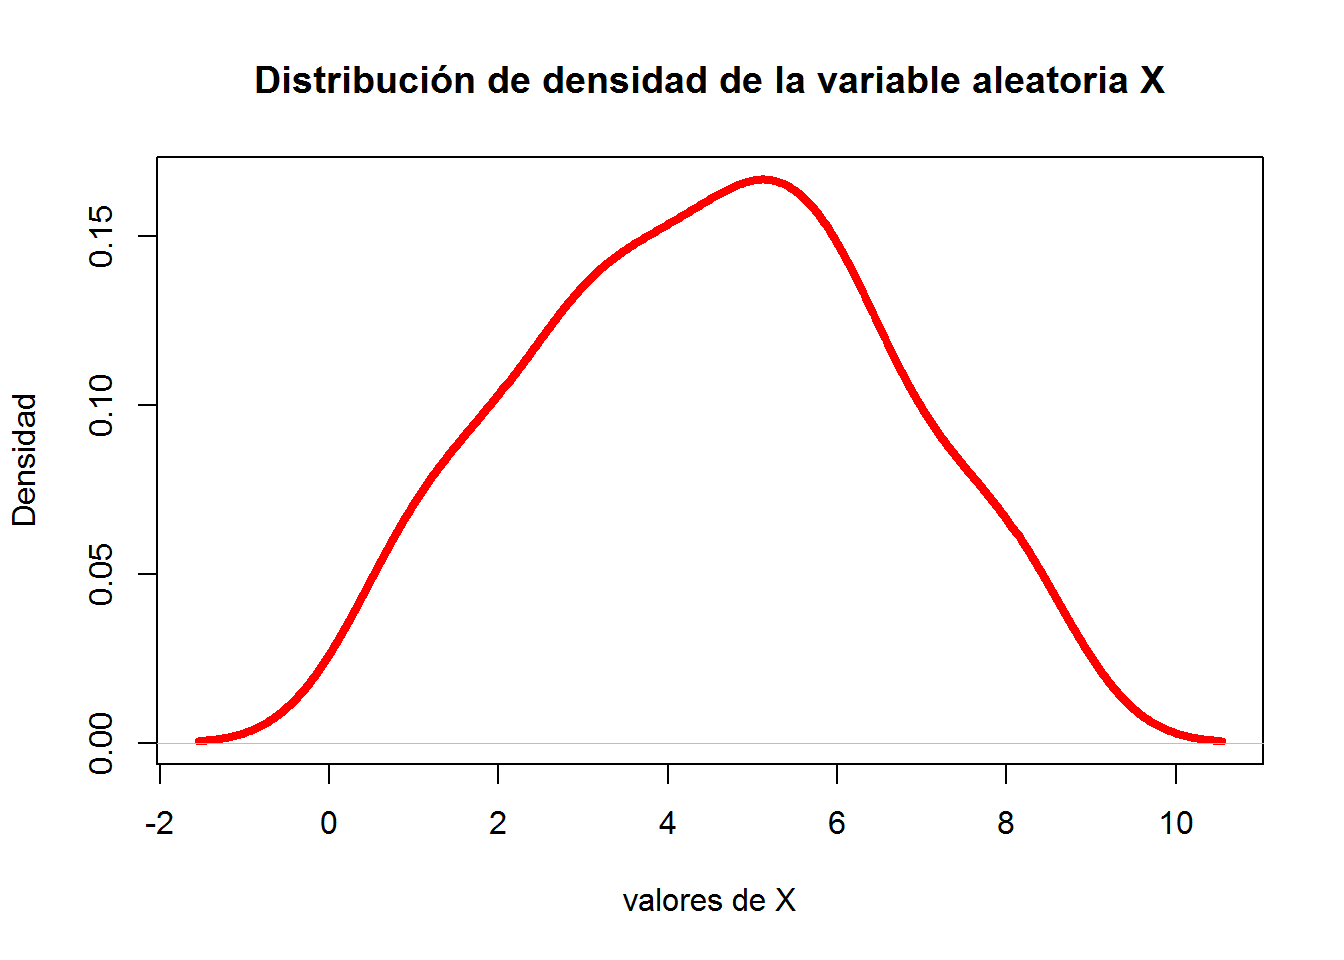
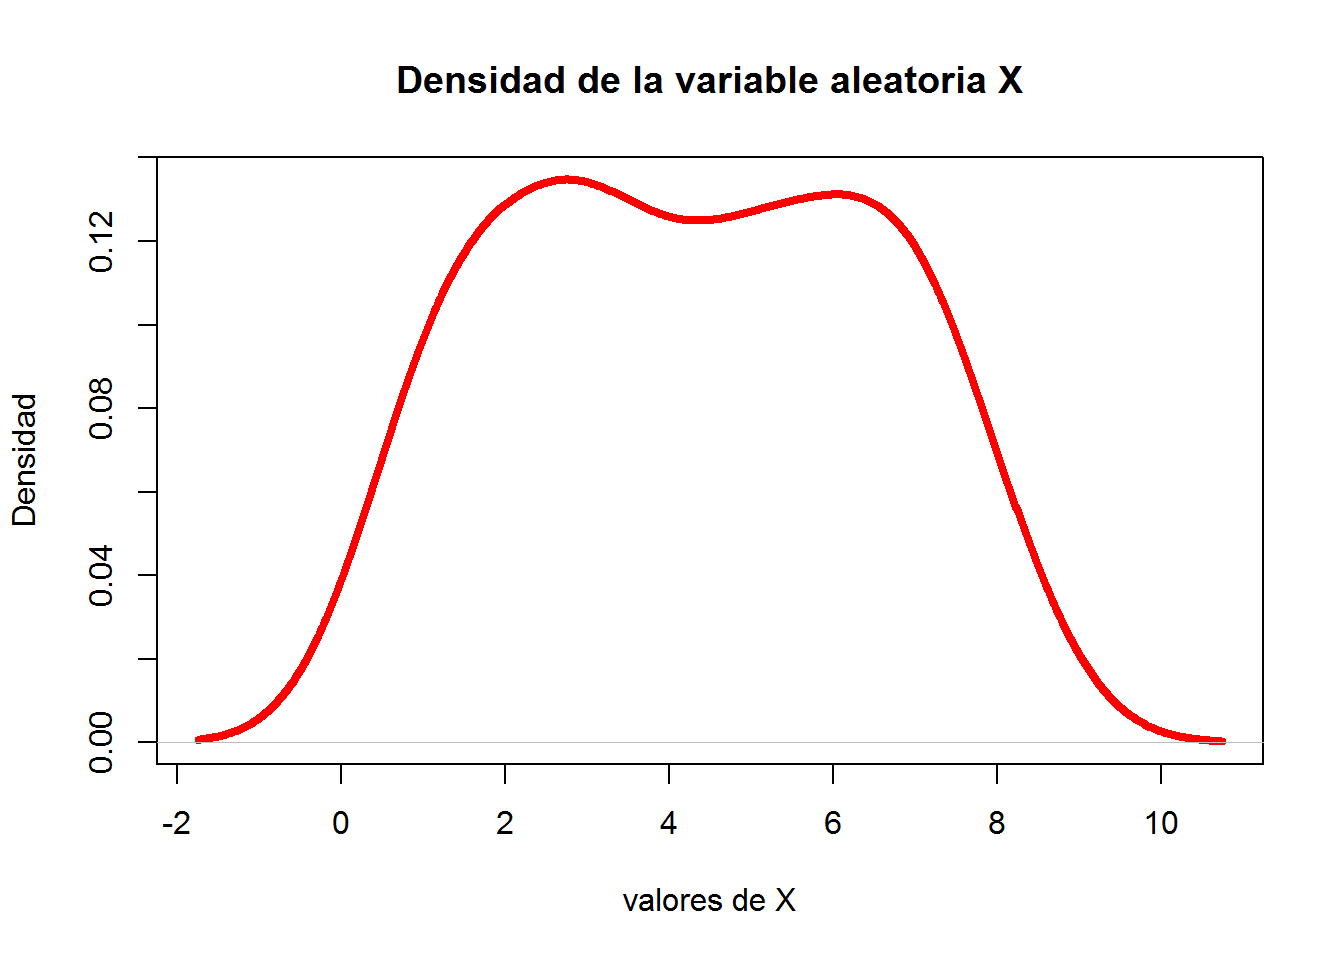
actualizacion

diff --git a/Densidad.html b/Densidad.html
@@ -248,7 +248,7 @@ $(document).ready(function () {
 
 <p>Se construye un grafico de densidades para la variable X, que vamos a crear aleatoriamente para este ejemplo</p>
 <pre class="r"><code>x&lt;- sample(1:8,50,replace = TRUE)</code></pre>
-<pre class="r"><code>plot(density(x), main=&quot;Distribución de densidad de la variable aleatoria X&quot;, xlab=&quot;valores de X&quot;, ylab=&quot;Densidad&quot;, lwd=4, col=&quot;red&quot;)</code></pre>
+<pre class="r"><code>plot(density(x), main=&quot;Densidad de la variable aleatoria X&quot;, xlab=&quot;valores de X&quot;, ylab=&quot;Densidad&quot;, lwd=4, col=&quot;red&quot;)</code></pre>
 <p><img src="Densidad_files/figure-html/unnamed-chunk-2-1.png" width="672" /></p>
 
 
